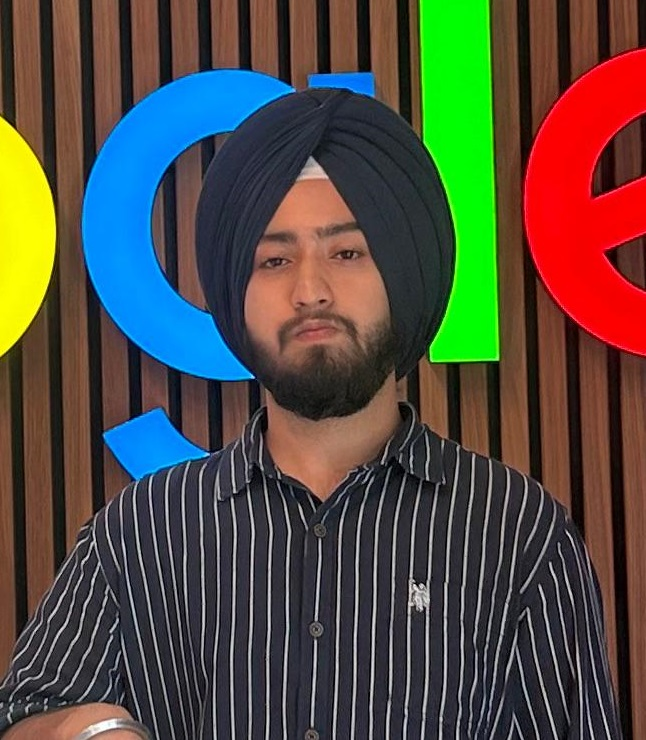
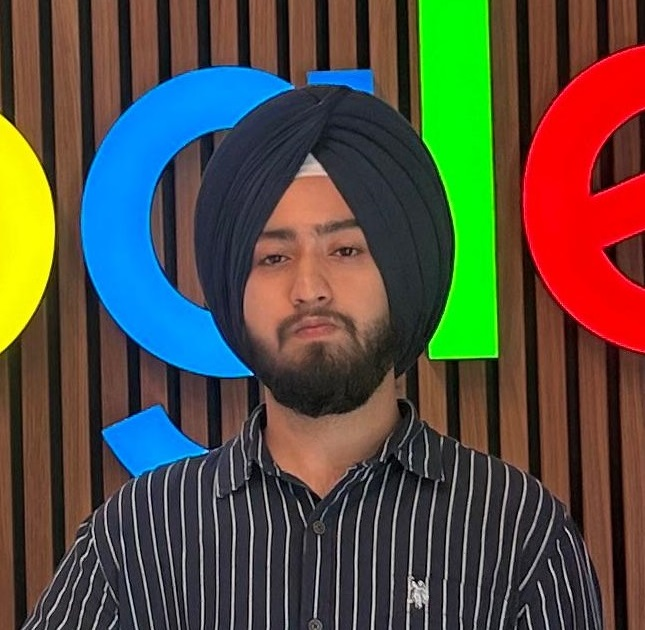
new team member added over here

diff --git a/index.html b/index.html
@@ -1904,7 +1904,7 @@
                 <!-- <div class="shadow-effect p-4"> -->
                 <img
                   class="img-circle"
-                  src="img/m1.jpeg.png"
+                  src="img/WhatsApp Image 2024-12-31 at 6.08.18 PM.jpeg"
                   alt="Maker 1"
                   width="220"
                 />
@@ -1936,6 +1936,22 @@
                   class="testimonial-name mt-3 bg-white text-dark font-weight-bold"
                 >
                   Ravi Pratap
+                </div>
+              </div>
+
+              <div class="item text-center">
+                <!-- <div class="shadow-effect p-4"> -->
+                <img class="img-circle" src="img/sara2.png" alt="Maker 2" />
+                <p class="mt-3 text-white">
+                  "Dramatically maintain clicks-and-mortar solutions without
+                  functional solutions. Completely synergize resource taxing
+                  relationships via premier niche markets."
+                </p>
+                <!-- </div> -->
+                <div
+                  class="testimonial-name mt-3 bg-white text-dark font-weight-bold"
+                >
+                  Sara
                 </div>
               </div>
             </div>
